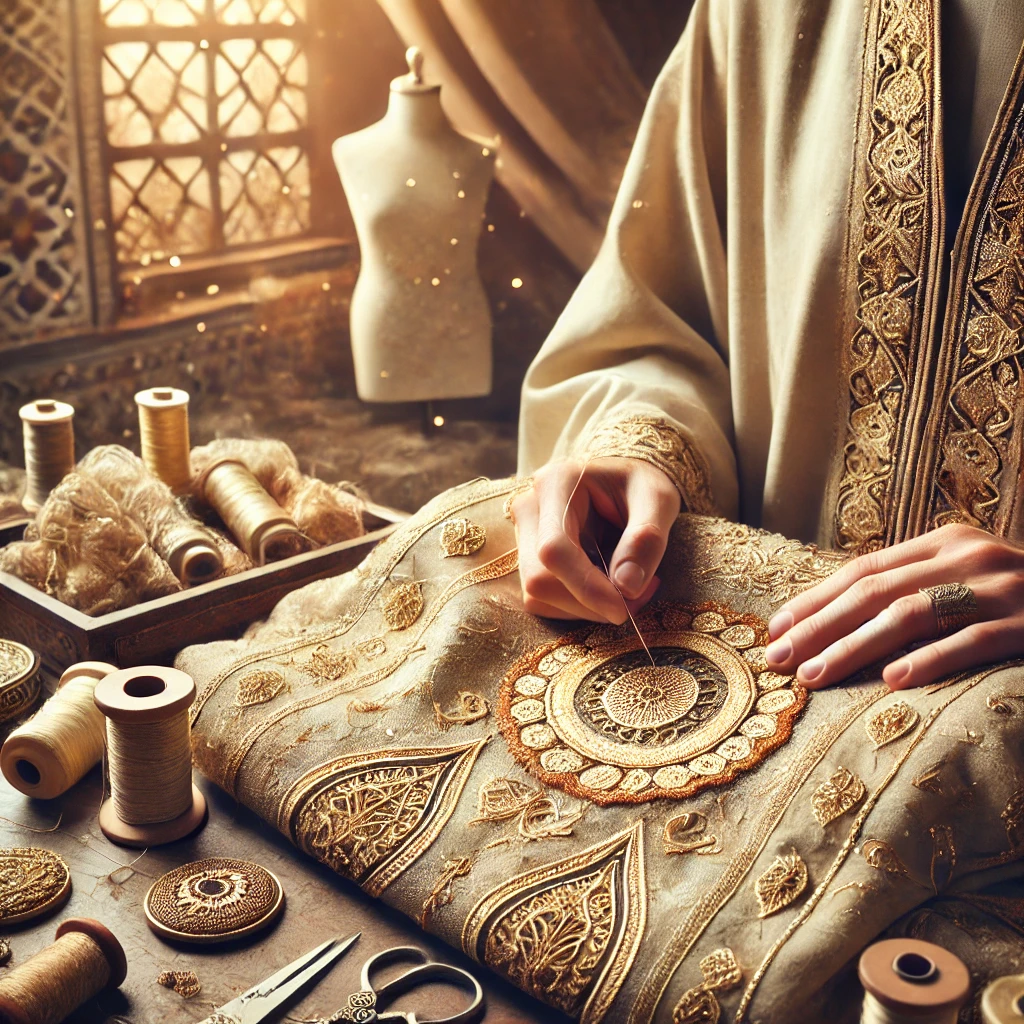
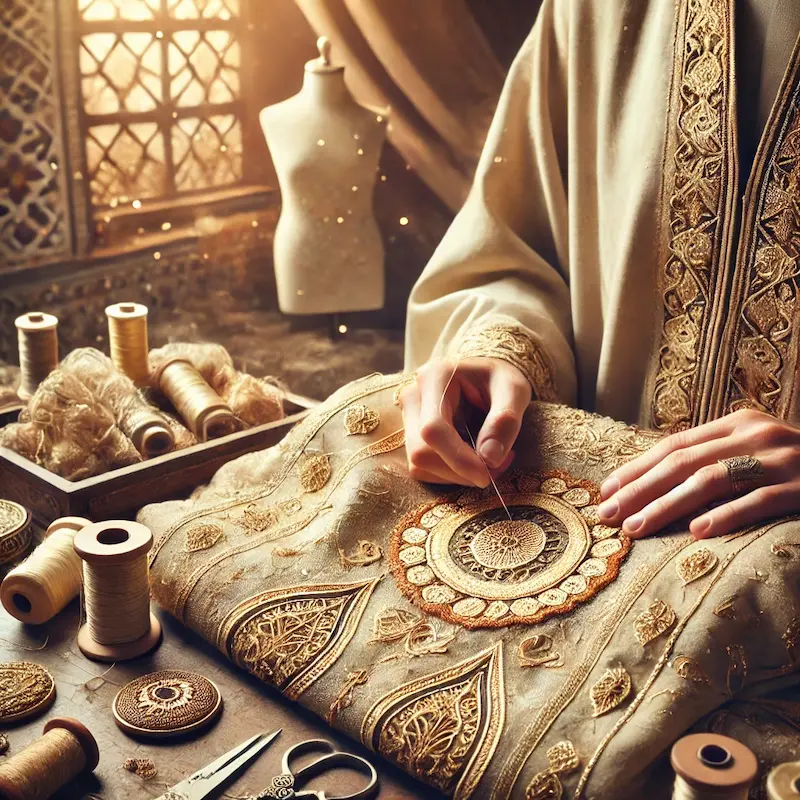
Updated imgs fetch for About.jsx

diff --git a/src/pages/About.jsx b/src/pages/About.jsx
@@ -4,7 +4,7 @@ import FadeInSection from "../Animations/FadeInSection.jsx";
 import aboutImage1 from "../assets/About/about-img-1.webp";
 import aboutImage2 from "../assets/About/about-img-2.webp";
 import aboutImage3 from "../assets/About/about-img-3.webp";
-import aboutImage4 from "../assets/About/About-img-Mosquee.png";
+import aboutImage4 from "../assets/About/About-img-Mosquee.webp";
 import aboutImage5 from "../assets/About/about-img-5.webp";
 import { Helmet } from "react-helmet-async";
 import { useTranslation } from "react-i18next";
@@ -38,12 +38,15 @@ const About = () => {
         <FadeInSection>
           <div className="text-center">
             <img
-              src={aboutImage1}
-              alt="Wahret Zmen Boutique Interior"
-              loading="lazy"
-              fetchpriority="low"
-              className="rounded-2xl border-4 border-[#c69c6d] shadow-2xl mx-auto w-full max-w-md h-[300px] object-cover transition duration-700 ease-in-out hover:scale-110 hover:brightness-110 hover:shadow-[0_20px_40px_rgba(0,0,0,0.4)]"
-            />
+  src={aboutImage1}
+  alt="Wahret Zmen Boutique Interior"
+  loading="lazy"
+  width="400"
+  height="300"
+  fetchpriority="low"
+  className="rounded-2xl border-4 border-[#c69c6d] shadow-2xl mx-auto w-full max-w-md h-[300px] object-cover transition duration-700 ease-in-out hover:scale-110 hover:brightness-110 hover:shadow-[0_20px_40px_rgba(0,0,0,0.4)]"
+/>
+
           </div>
         </FadeInSection>
 
@@ -65,13 +68,16 @@ const About = () => {
         {/* Image Our Missions */}
         <FadeInSection>
           <div className="text-center">
-            <img
-              src={aboutImage2}
-              alt="Wahret Zmen Boutique Interior"
-              loading="lazy"
-              fetchpriority="low"
-              className="rounded-2xl border-4 border-[#c69c6d] shadow-2xl mx-auto w-full max-w-md h-[300px] object-cover transition duration-700 ease-in-out hover:scale-110 hover:brightness-110 hover:shadow-[0_20px_40px_rgba(0,0,0,0.4)]"
-            />
+           <img
+  src={aboutImage2}
+  alt="Wahret Zmen Boutique Interior"
+  loading="lazy"
+  width="400"
+  height="300"
+  fetchpriority="low"
+  className="rounded-2xl border-4 border-[#c69c6d] shadow-2xl mx-auto w-full max-w-md h-[300px] object-cover transition duration-700 ease-in-out hover:scale-110 hover:brightness-110 hover:shadow-[0_20px_40px_rgba(0,0,0,0.4)]"
+/>
+
           </div>
         </FadeInSection>
 
@@ -94,13 +100,16 @@ const About = () => {
         {/* Image Our Products*/}
         <FadeInSection>
           <div className="text-center">
-            <img
-              src={aboutImage3}
-              alt="Wahret Zmen Boutique Interior"
-              loading="lazy"
-              fetchpriority="low"
-              className="rounded-2xl border-4 border-[#c69c6d] shadow-2xl mx-auto w-full max-w-md h-[300px] object-cover transition duration-700 ease-in-out hover:scale-110 hover:brightness-110 hover:shadow-[0_20px_40px_rgba(0,0,0,0.4)]"
-            />
+           <img
+  src={aboutImage3}
+  alt="Wahret Zmen Boutique Interior"
+  loading="lazy"
+  width="400"
+  height="300"
+  fetchpriority="low"
+  className="rounded-2xl border-4 border-[#c69c6d] shadow-2xl mx-auto w-full max-w-md h-[300px] object-cover transition duration-700 ease-in-out hover:scale-110 hover:brightness-110 hover:shadow-[0_20px_40px_rgba(0,0,0,0.4)]"
+/>
+
           </div>
         </FadeInSection>
 
@@ -122,12 +131,15 @@ const About = () => {
         <FadeInSection>
           <div className="text-center">
             <img
-              src={aboutImage4}
-              alt="Wahret Zmen Boutique Interior"
-              loading="lazy"
-              fetchpriority="low"
-              className="rounded-2xl border-4 border-[#c69c6d] shadow-2xl mx-auto w-full max-w-md h-[300px] object-cover transition duration-700 ease-in-out hover:scale-110 hover:brightness-110 hover:shadow-[0_20px_40px_rgba(0,0,0,0.4)]"
-            />
+  src={aboutImage4}
+  alt="Wahret Zmen Boutique Interior"
+  loading="lazy"
+  width="400"
+  height="300"
+  fetchpriority="low"
+  className="rounded-2xl border-4 border-[#c69c6d] shadow-2xl mx-auto w-full max-w-md h-[300px] object-cover transition duration-700 ease-in-out hover:scale-110 hover:brightness-110 hover:shadow-[0_20px_40px_rgba(0,0,0,0.4)]"
+/>
+
           </div>
         </FadeInSection>
 
@@ -153,13 +165,16 @@ const About = () => {
         {/* Join our Heritage */}
         <FadeInSection>
           <div className="text-center">
-            <img
-              src={aboutImage5}
-              alt="Wahret Zmen Boutique Interior"
-              loading="lazy"
-              fetchpriority="low"
-              className="rounded-2xl border-4 border-[#c69c6d] shadow-2xl mx-auto w-full max-w-md h-[300px] object-cover transition duration-700 ease-in-out hover:scale-110 hover:brightness-110 hover:shadow-[0_20px_40px_rgba(0,0,0,0.4)]"
-            />
+           <img
+  src={aboutImage5}
+  alt="Wahret Zmen Boutique Interior"
+  loading="lazy"
+  width="400"
+  height="300"
+  fetchpriority="low"
+  className="rounded-2xl border-4 border-[#c69c6d] shadow-2xl mx-auto w-full max-w-md h-[300px] object-cover transition duration-700 ease-in-out hover:scale-110 hover:brightness-110 hover:shadow-[0_20px_40px_rgba(0,0,0,0.4)]"
+/>
+
           </div>
         </FadeInSection>
 
